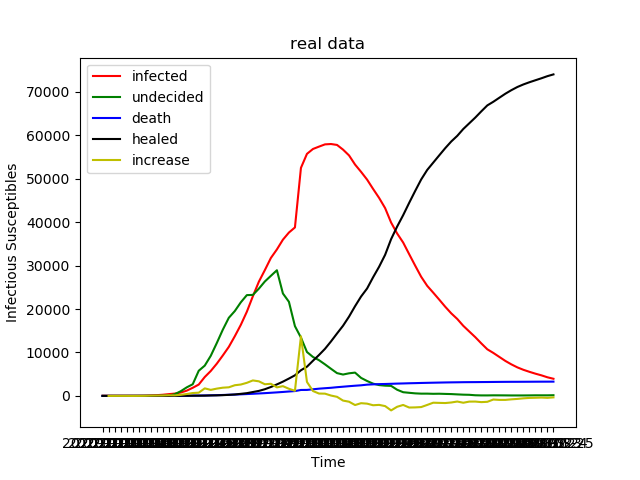
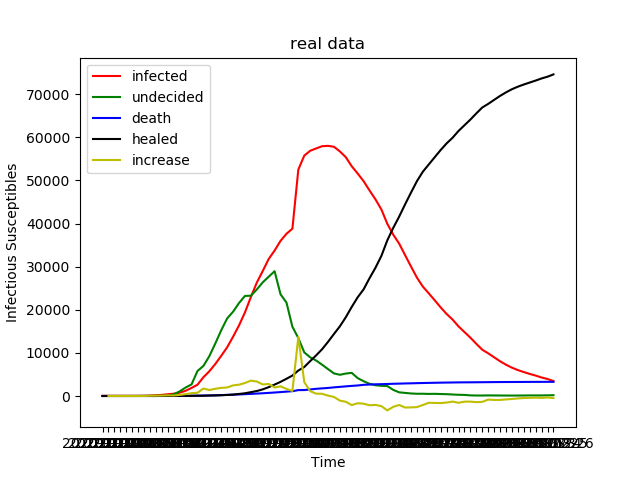
更新疫情数据至2020年3月26日24时，并将预测时间增加到100天。

diff --git a/SIR.py b/SIR.py
@@ -12,7 +12,7 @@ import pandas as pd
 beta = 8e-6
 gamma = 0.04
 TS = 1.0
-ND = 60.0
+ND = 100.0
 S0 = 39000
 I0 = 41
 INPUT = [S0, I0, 0.0]
